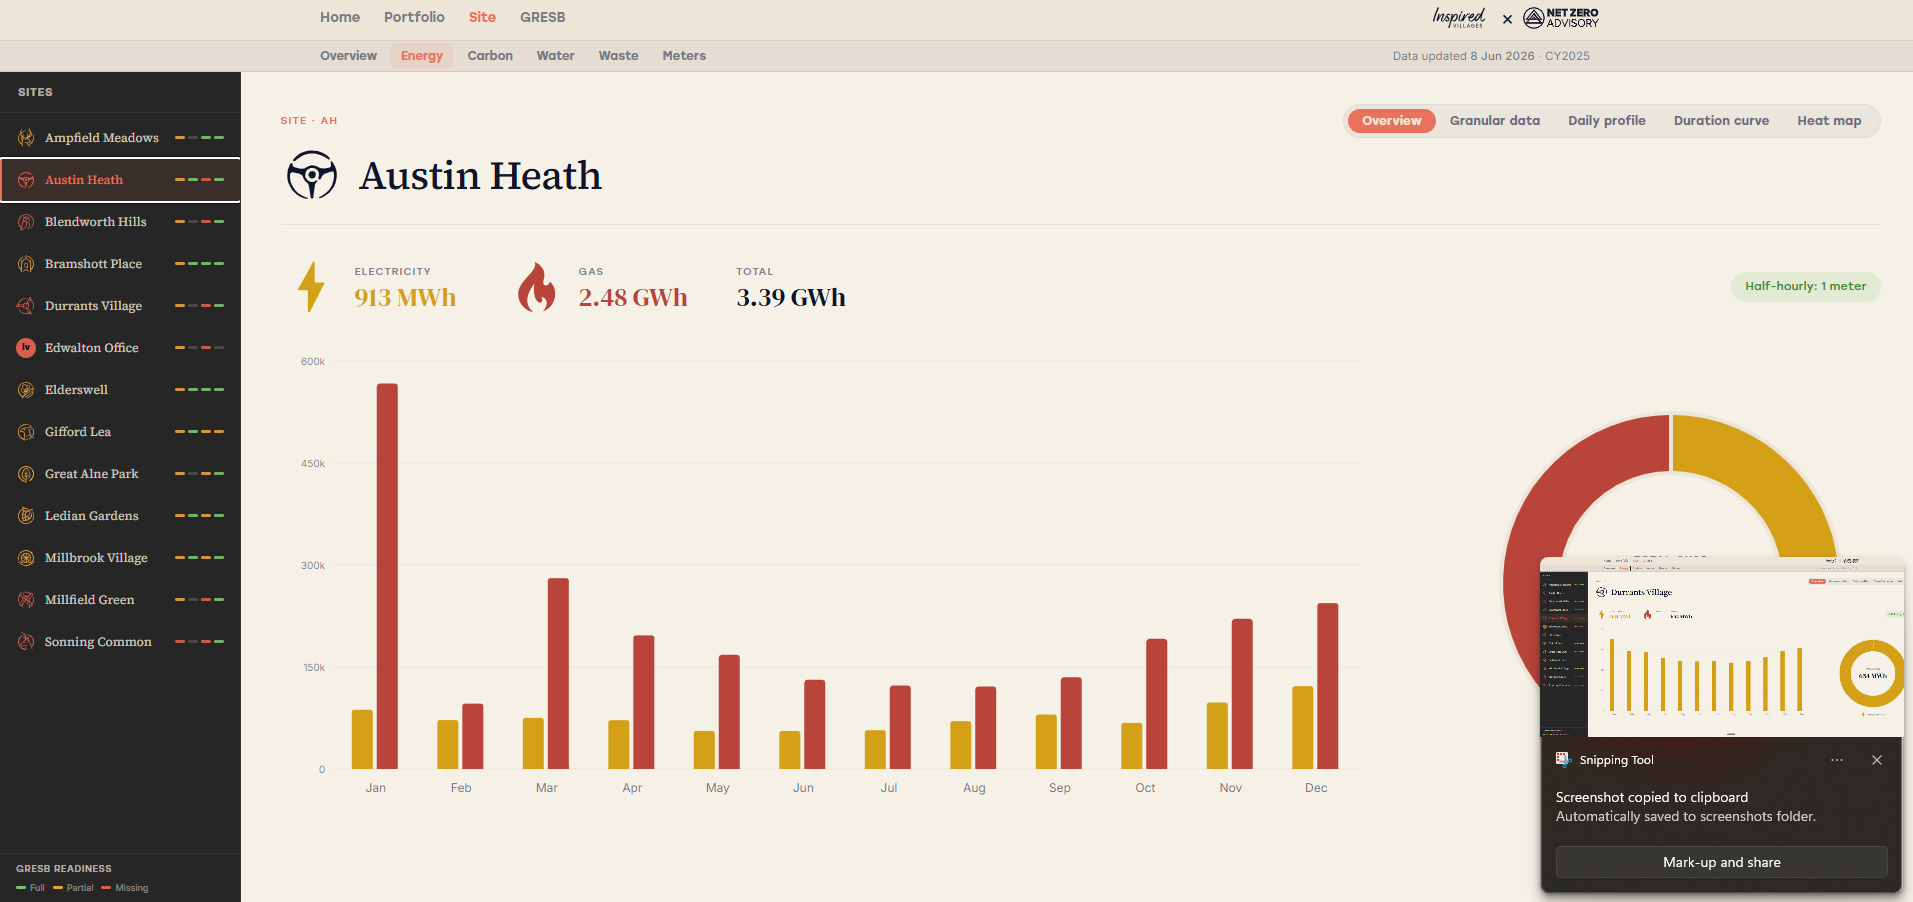
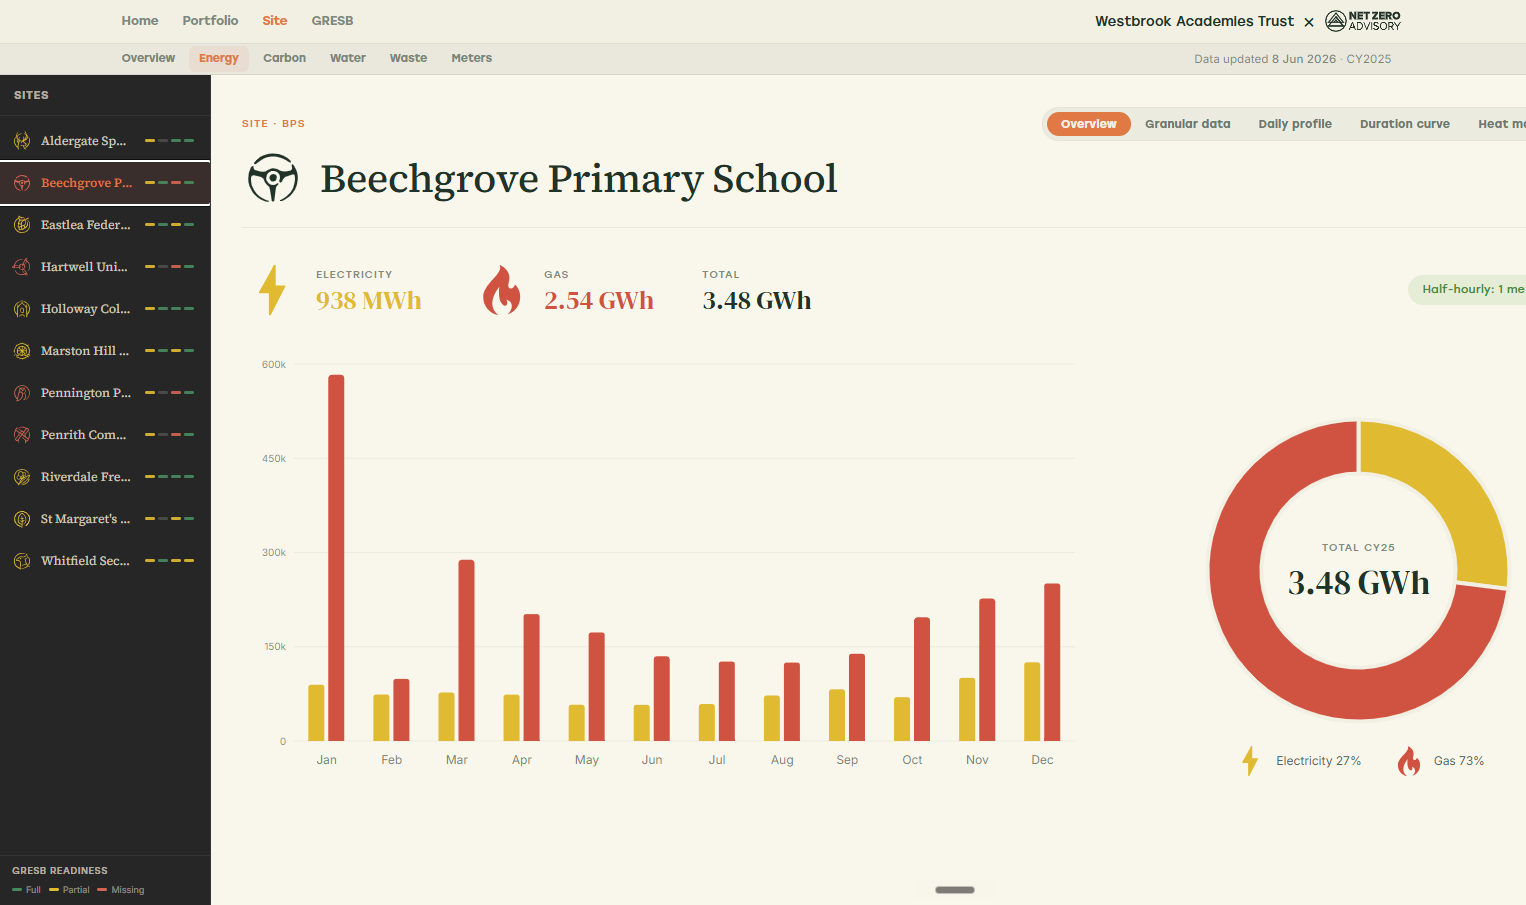
Product page browser frame: match the new screenshot aspect + bigger
Chris reshot the product screenshots at higher resolution. The new
files (~1530x905) are ~1.69:1 aspect, but the CSS was locked at
21/10 = 2.1:1 - so object-fit: cover was forcing the screenshots
to fill a too-wide frame by cropping their top + bottom, losing
visible UI detail.

Three fixes:

1. Aspect ratio 21/10 -> 17/10
   17:10 = 1.7:1, matches the new screenshots (1.69) almost exactly.
   No more vertical cropping.

2. object-fit: cover -> contain
   contain ensures the whole screenshot is visible inside the frame.
   With matched aspect ratios the difference is invisible (frame
   exactly contains image, no letterboxing), but contain is the
   safe choice if any future screenshot lands at a slightly
   different ratio.

3. Frame max-width 760 -> 880 + hero column split 0.45/0.55 -> 0.38/0.62
   Per Chris - "make the demo screen as big as possible on the page
   so the user can see some of the detail." The wider right column
   + larger max-width gives the frame ~880px at desktop, ~518px tall
   with the 17:10 aspect. Reads as the page's anchor.
   Hero gap also trimmed 64 -> 48 for the same reason.

Verified the change: computed aspect-ratio "17 / 10", measured
screen-rect ratio 1.700, object-fit "contain", max-width 880px.

diff --git a/src/styles/product-page.css b/src/styles/product-page.css
@@ -66,8 +66,12 @@
   padding: 0 48px;
   box-sizing: border-box;
   display: grid;
-  grid-template-columns: minmax(0, 0.45fr) minmax(0, 0.55fr);
-  gap: 64px;
+  /* Frame column widened from 0.55fr to 0.62fr per Chris - "make the
+     demo screen as big as possible on the page." Text column trimmed
+     to 0.38fr to compensate. Gap also reduced 64 -> 48 so the frame
+     gets even more breathing room. */
+  grid-template-columns: minmax(0, 0.38fr) minmax(0, 0.62fr);
+  gap: 48px;
   align-items: center;
   position: relative;
   z-index: 2;
@@ -310,9 +314,11 @@
 .browser-frame {
   position: relative;
   width: 100%;
-  /* 760px max gives the 21:10 frame room to breathe at ~360px tall.
-     Was 640px when frame was 16:10. */
-  max-width: 760px;
+  /* Bumped 760 -> 880 per Chris - "make the demo screen as big as
+     possible on the page so the user can see some of the detail."
+     With the corrected 17:10 aspect (matches the new screenshots),
+     880px width gives ~518px tall - reads as the page's anchor. */
+  max-width: 880px;
   margin: 0 auto;
   border-radius: 10px;
   /* Slightly elevated against the canvas (~5% lighter) per brief. */
@@ -362,9 +368,12 @@
 .browser-frame-screen {
   position: relative;
   width: 100%;
-  /* 21:10 aspect ratio matches Chris's actual screenshots
-     (~1910x900 source, ratio 2.12). Was 16:10, too narrow for them. */
-  aspect-ratio: 21 / 10;
+  /* 17:10 matches the new screenshot dimensions (~1530x905 native,
+     ratio 1.69). The previous 21:10 was too wide and was forcing
+     object-fit: cover to crop the top + bottom of each screenshot
+     (losing visible UI detail) - the bug Chris flagged after
+     reshooting at higher resolution. */
+  aspect-ratio: 17 / 10;
   overflow: hidden;
 }
 .browser-frame-img {
@@ -372,7 +381,10 @@
   inset: 0;
   width: 100%;
   height: 100%;
-  object-fit: cover;
+  /* contain (not cover) so the whole screenshot is visible - no
+     edge cropping. The new screens are wider than they are tall,
+     so contain shows them entirely within the frame. */
+  object-fit: contain;
   opacity: 0;
   /* Crossfade extended to 1500ms per Chris (was 900) for a more
      languid dissolve. Matches CROSSFADE_MS in BrowserFrame.tsx. */
